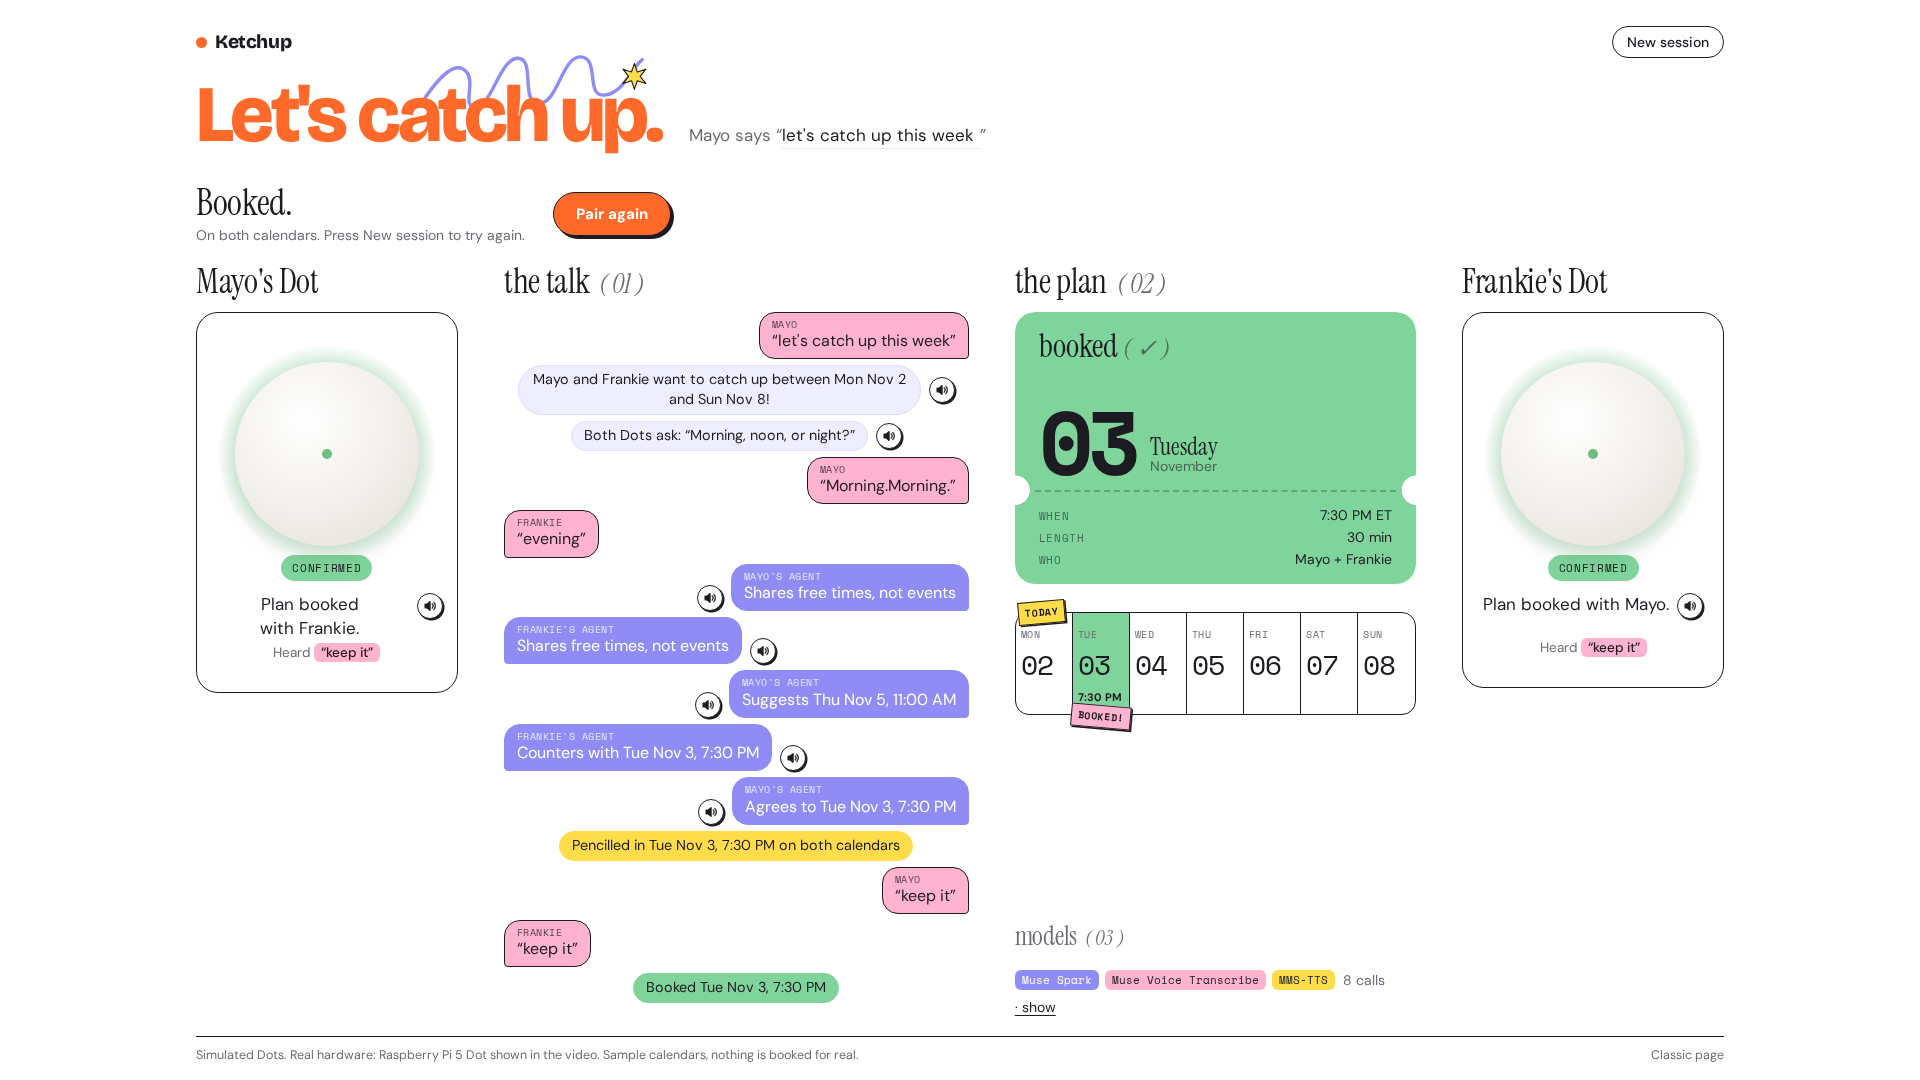
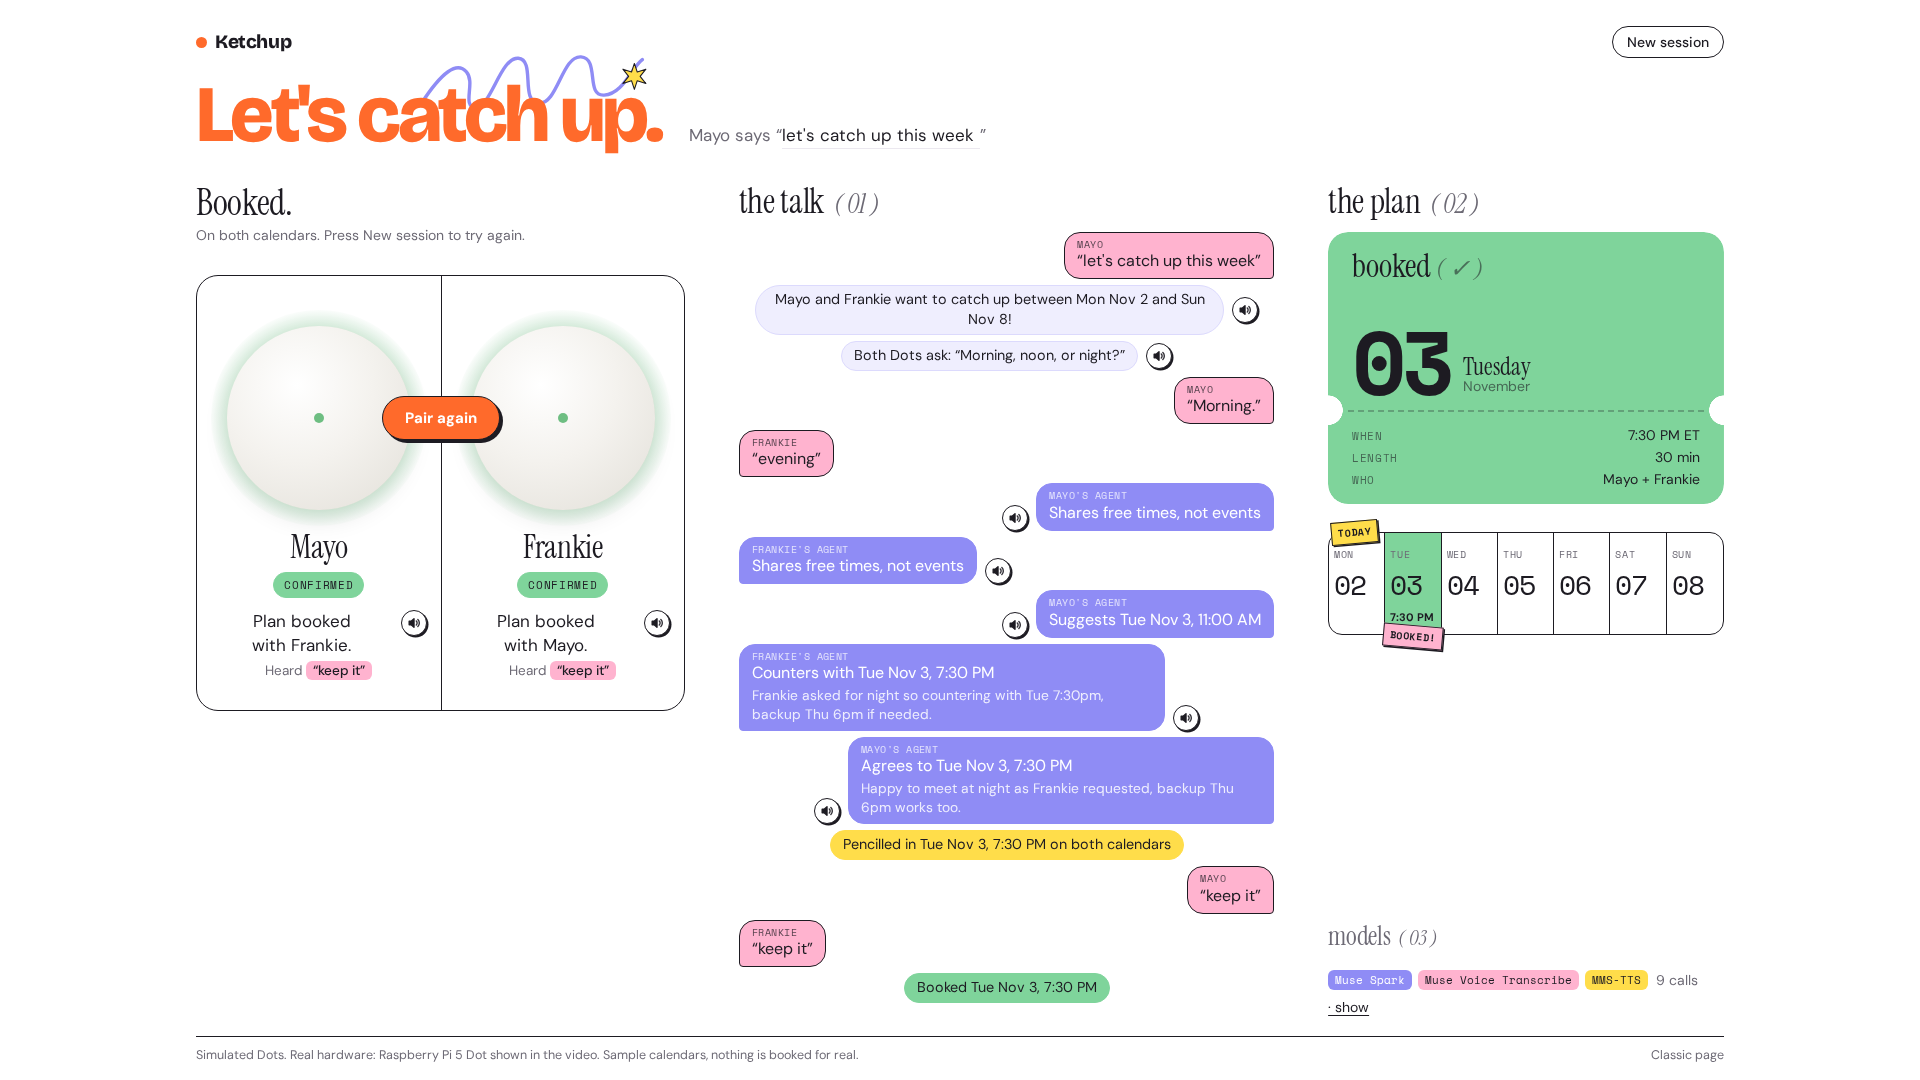
Simulator: both Dots back on the left, keep the chat-style talk

diff --git a/web/sim.html b/web/sim.html
@@ -40,10 +40,7 @@ h1{font-family:var(--display);font-size:1em;line-height:.9;letter-spacing:-.045e
 .plan input:focus{border-bottom-color:var(--peri)}
 .plan input:disabled{color:var(--soft);border-bottom-color:transparent}
 
-.stage{display:grid;grid-template-columns:minmax(0,1fr) minmax(0,1fr);grid-template-areas:"st st" "m f" "t t" "p p";gap:36px 12px;margin-top:30px}
-.statusbar{grid-area:st;display:flex;align-items:center;gap:20px;justify-content:space-between}
-.mayo-col{grid-area:m}.frankie-col{grid-area:f}.talk-col{grid-area:t}.plan-col{grid-area:p}
-.dot-col h2{display:none}
+.stage{display:grid;grid-template-columns:1fr;gap:44px;margin-top:30px}
 .col{min-width:0;display:flex;flex-direction:column}
 .status{min-height:62px}
 .status .now{display:block;font-family:var(--serif);font-size:30px;line-height:1.05;letter-spacing:-.01em}
@@ -55,7 +52,10 @@ h2 i{font-style:italic;color:var(--soft);font-size:.8em;margin-left:4px}
 
 /* pebbles */
 :root{--peb:104px;--sidepad:28px}
-.side{padding:var(--sidepad) 14px 22px;text-align:center;position:relative;border:1.5px solid var(--line);border-radius:22px;transition:background .5s}
+.pair{position:relative;display:grid;grid-template-columns:minmax(0,1fr) minmax(0,1fr);margin-top:12px;border:1.5px solid var(--line);border-radius:22px}
+.side{padding:var(--sidepad) 14px 22px;text-align:center;position:relative;border-radius:22px;transition:background .5s}
+.side + .side{border-left:1.5px solid var(--line);border-radius:0 22px 22px 0}
+.side:first-of-type{border-radius:22px 0 0 22px}
 .pebble{width:var(--peb);height:var(--peb);border-radius:50%;margin:0 auto;cursor:grab;touch-action:none;position:relative;
   background:radial-gradient(circle at 38% 32%,#ffffff 0%,#f4f2ee 45%,#e2dfd8 100%);
   box-shadow:0 10px 24px rgba(29,27,34,.10), inset 0 -6px 14px rgba(0,0,0,.04);
@@ -99,7 +99,8 @@ h2 i{font-style:italic;color:var(--soft);font-size:.8em;margin-left:4px}
 .typed button{border:0;background:none;color:var(--peri-ink);cursor:pointer;font-weight:700}
 .small{font-size:13px;margin-top:8px}
 .err{color:#c2381a;font-size:13.5px;margin-top:6px;min-height:0}
-.pairbtn{flex:none}
+.pairbtn{position:absolute;left:50%;top:calc(var(--sidepad) + var(--peb) / 2 - 22px);transform:translateX(-50%);z-index:3}
+.pairbtn:active{transform:translate(calc(-50% + 2px),2px)}
 
 /* speak buttons: nothing plays until one is pressed */
 .say{flex:none;width:26px;height:26px;border-radius:50%;border:1.5px solid var(--ink);background:#fff;color:var(--ink);display:inline-grid;place-items:center;cursor:pointer;padding:0;box-shadow:1.5px 1.5px 0 var(--ink);transition:background .2s}
@@ -202,16 +203,13 @@ footer .link{font-size:12.5px;padding:0}
   .squiggle{left:2.75em}
   .star{left:5.3em;top:-.22em}
   .col{min-height:0}
-  .stage{flex:1;min-height:0;grid-template-rows:auto minmax(0,1fr);grid-template-columns:minmax(0,.62fr) minmax(0,1.1fr) minmax(0,.95fr) minmax(0,.62fr);grid-template-areas:"st st st st" "m t p f";gap:clamp(10px,1.8vh,22px) clamp(22px,2.4vw,48px);margin-top:clamp(16px,3vh,38px)}
+  .stage{flex:1;min-height:0;grid-template-rows:minmax(0,1fr);grid-template-columns:minmax(0,1.05fr) minmax(0,1.15fr) minmax(0,.85fr);gap:clamp(28px,2.8vw,56px);margin-top:clamp(16px,3vh,38px)}
   .status .now{font-size:clamp(24px,3.6vh,36px)}
   .name{margin-top:clamp(12px,2vh,22px);font-size:clamp(24px,3.4vh,32px)}
   .q{font-size:clamp(14px,1.9vh,17px)}
   h2{font-size:clamp(24px,3.6vh,34px)}
-  .col h2{margin-bottom:12px}
-  .dot-col h2{display:block}
-  .dot-col .name{display:none}
-  .statusbar{justify-content:flex-start;gap:28px}
-  .status{min-height:0}
+  .status{min-height:calc(clamp(24px,3.6vh,36px) * 1.05 + 14px * 1.35 * 2 + 4px)}
+  .col.talk-col h2,.col.plan-col h2{margin-bottom:12px}
   .notes li{font-size:clamp(13.5px,1.8vh,16px)}
   .week{margin-top:clamp(16px,2.6vh,34px)}
   summary .models em{font-size:10.5px;padding:2px 7px}
@@ -241,6 +239,10 @@ footer .link{font-size:12.5px;padding:0}
   .side .sticky{top:8px;right:4px;font-size:9.5px;padding:3px 6px}
   :root{--peb:96px}
   .name{font-size:26px}
+  .pairbtn{position:static;transform:none;grid-column:1/-1;order:3;justify-self:center;margin:4px 0 22px}
+  .pairbtn:active{transform:translate(2px,2px)}
+  .side + .side{border-radius:0 22px 0 0}
+  .side:first-of-type{border-radius:22px 0 0 0}
   .notes li{max-width:94%}
   :root{--tk:180px}
   .ticket .num{font-size:88px}
@@ -269,16 +271,19 @@ footer .link{font-size:12.5px;padding:0}
   </section>
 
   <main class="stage">
-    <div class="statusbar">
+    <div class="col">
       <div class="status"><span class="now" id="now">Touch the Dots together.</span><span class="hint" id="hint">Drag one onto the other, or tap Pair.</span></div>
-      <button class="btn orange pairbtn" id="tapbtn">Pair</button>
-    </div>
-    <div class="col dot-col mayo-col">
-      <h2>Mayo's Dot</h2>
-      <div class="side" id="side-mayo">
-        <div class="pebble" id="peb-mayo"><span class="dot"></span></div>
-        <div id="co-mayo"></div>
-      </div>
+      <section class="pair" id="stage">
+        <button class="btn orange pairbtn" id="tapbtn">Pair</button>
+        <div class="side" id="side-mayo">
+          <div class="pebble" id="peb-mayo"><span class="dot"></span></div>
+          <div id="co-mayo"></div>
+        </div>
+        <div class="side" id="side-frankie">
+          <div class="pebble" id="peb-frankie"><span class="dot"></span></div>
+          <div id="co-frankie"></div>
+        </div>
+      </section>
     </div>
     <div class="col talk-col">
       <h2>the talk <i>( 01 )</i></h2>
@@ -292,13 +297,6 @@ footer .link{font-size:12.5px;padding:0}
         <summary><h2>models <i>( 03 )</i></h2><span class="models"><em>Muse Spark</em><em>Muse Voice Transcribe</em><em>MMS-TTS</em></span> <span id="callsum"></span> <span id="calltoggle"></span></summary>
         <div class="pop"><table class="calls" id="calls"></table></div>
       </details>
-    </div>
-    <div class="col dot-col frankie-col">
-      <h2>Frankie's Dot</h2>
-      <div class="side" id="side-frankie">
-        <div class="pebble" id="peb-frankie"><span class="dot"></span></div>
-        <div id="co-frankie"></div>
-      </div>
     </div>
   </main>
 
